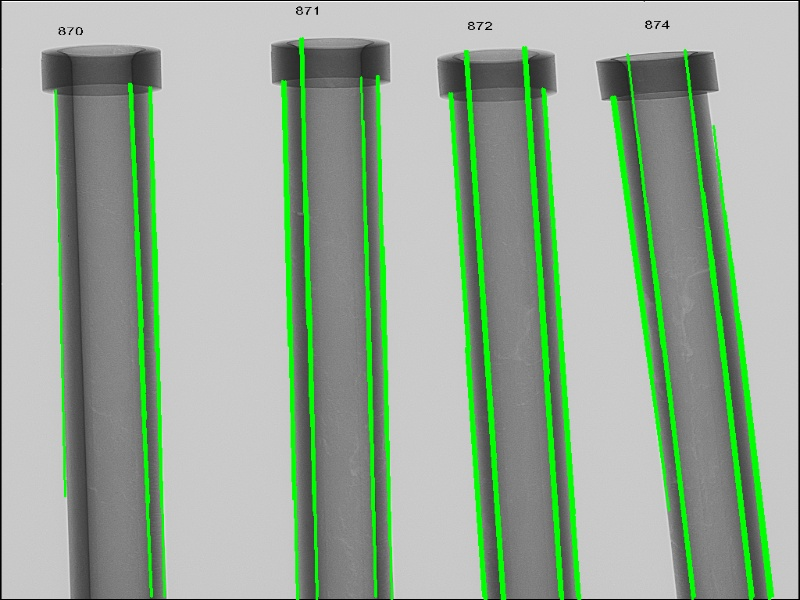
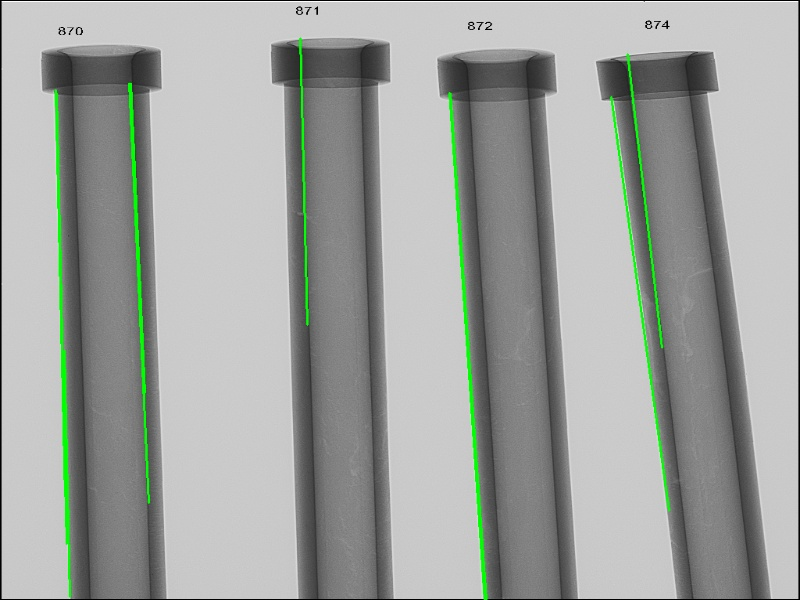
Emad's  Approach 2

diff --git a/2_power_pipes.py b/2_power_pipes.py
@@ -103,15 +103,19 @@ def m_filter_with_slopes(lines, ts_low, ts_high, ti_low, ti_high):
     another_array = []
     lines = sort_lines(lines)
     for line in lines:
+
+        # the lines on the edges are not relevant to us
         if (np.abs(line[1] - line[3]) < 10) or (np.abs(line[0] - line[2]) < 2):
                 continue
+
         slope, intercept = get_slop_intercept(line)
         slope = 0 if slope is None else slope
         intercept = 0 if intercept is None else intercept
 
+        # first member of the array must be added manually
         if len(result_array) == 0:
             result_array.append(line)
-            continue
+            # continue
 
         for l2 in result_array:
             l2_slope, l2_intercept = get_slop_intercept(l2)     
@@ -121,16 +125,20 @@ def m_filter_with_slopes(lines, ts_low, ts_high, ti_low, ti_high):
             slope_ratio = abs(l2_slope/slope) if slope != 0 else 0
             intercept_ratio = abs(l2_intercept/intercept) if intercept != 0 else 0
             
-            print('[*_*] Info :', slope_ratio, intercept_ratio)
-            print('[+] current:', slope, intercept)
-            print('[-] comp:', l2_slope, l2_intercept)
-            print('[++] lines :', line, l2)
+            # print('[*_*] Info :', slope_ratio, intercept_ratio)
+            # print('[+] current:', slope, intercept)
+            # print('[-] comp:', l2_slope, l2_intercept)
+            # print('[++] lines :', line, l2)
             if (slope_ratio < ts_low or slope_ratio > ts_high) and (intercept_ratio < ti_low or intercept_ratio > ti_high):
-                if line not in result_array and (slope, intercept) not in another_array:
-                    print('[!] Rigistered!')
-                    result_array.append(line)
-                    another_array.append((slope, intercept))
-            print('====================================================================')
+                another_array.append(True)
+            else:
+                another_array.append(False)
+            # print('====================================================================')
+        
+        if np.all(another_array):
+            print('[!] Rigistered!', line)
+            result_array.append(line)
+        another_array = []
 
     return result_array
 
@@ -262,7 +270,7 @@ for x1, y1, x2, y2  in new_lines:
 cv2.imshow('res', cv2.resize(lineImage, (800, 600)))
 cv2.imwrite(os.path.join(results_path, 'res.jpg'), cv2.resize(lineImage, (800, 600)))
 
-filtered_lines = m_filter_with_slopes(lines, 0.95, 1.05, 0.95, 1.05)
+filtered_lines = m_filter_with_slopes(lines, 0.99, 1.05, 0.99, 1.05)
 print('[--]', len(filtered_lines))
 
 for x1, y1, x2, y2  in filtered_lines:
